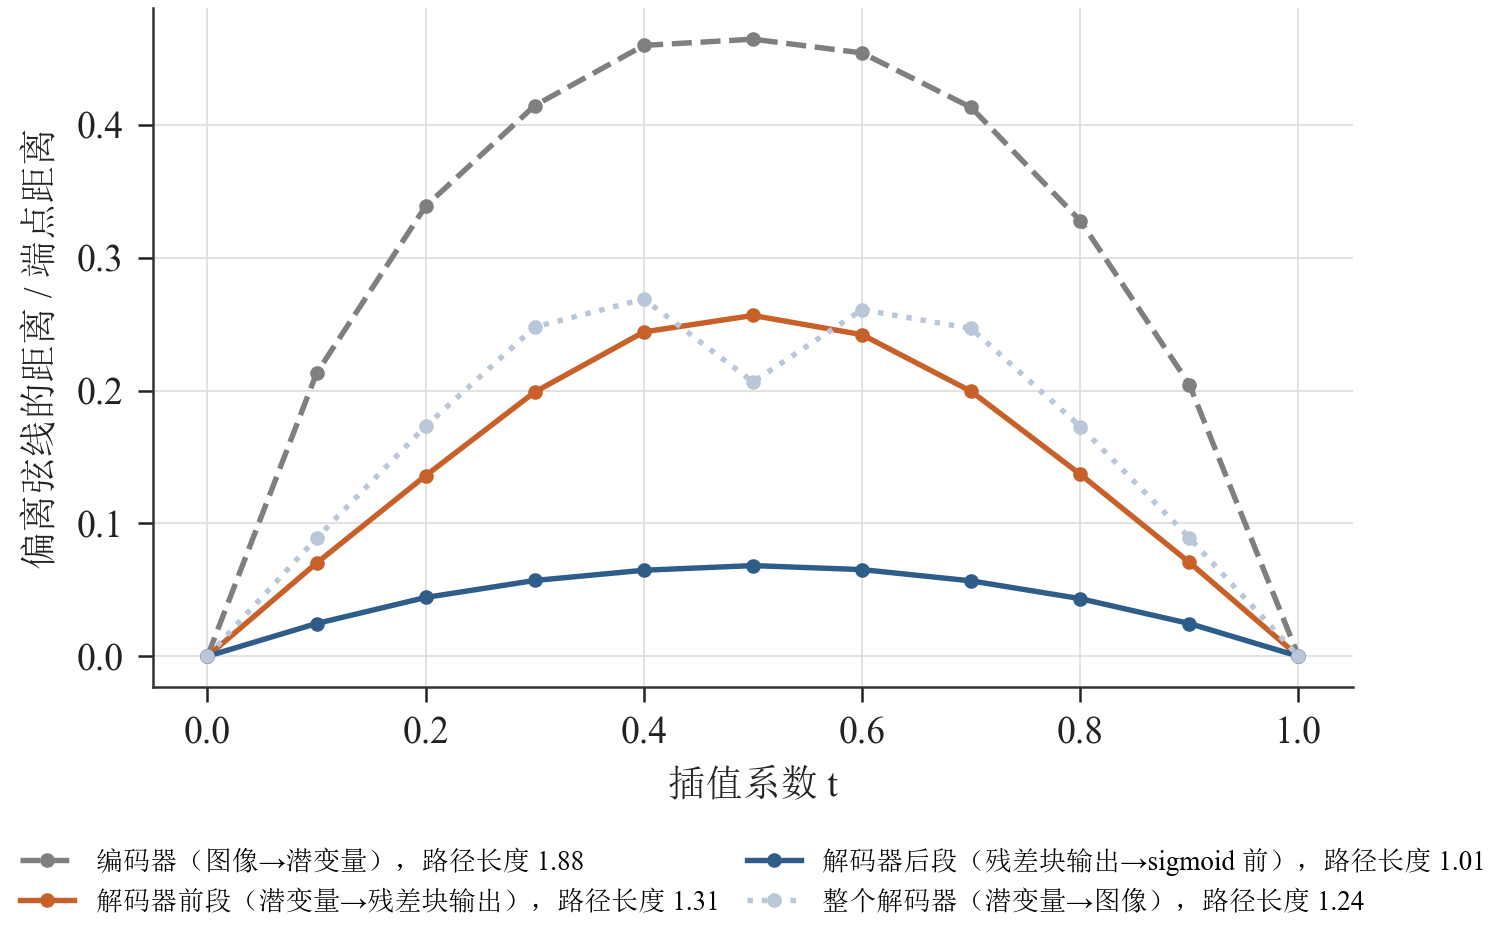
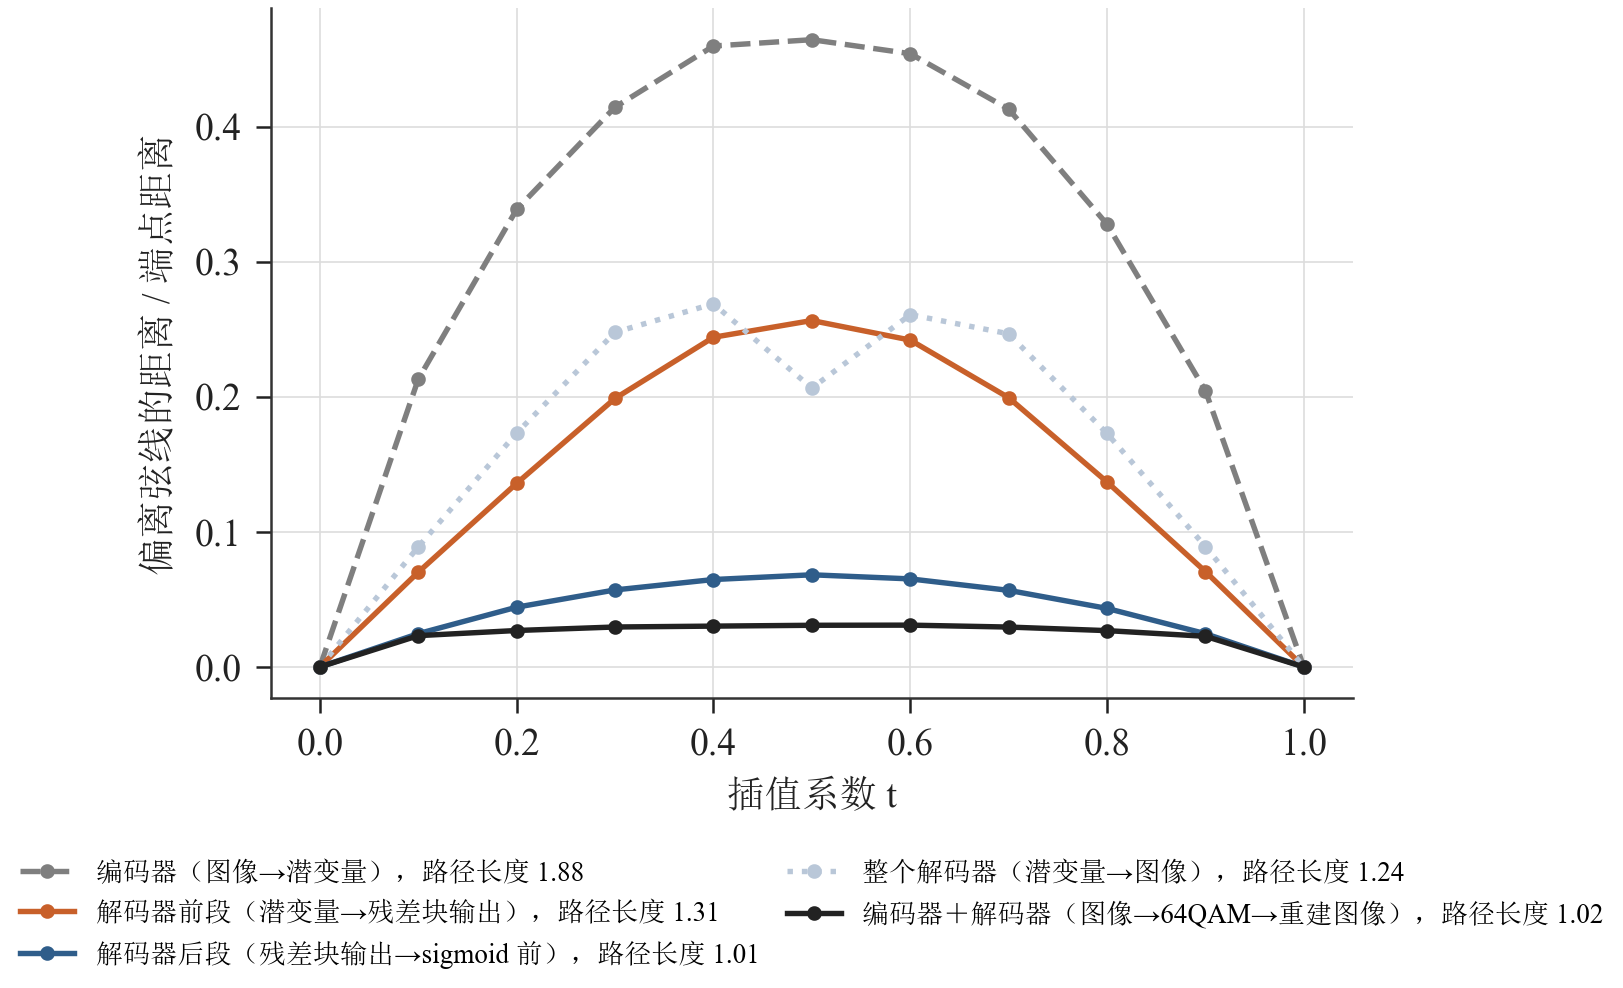
Shallow decoder write-up: interpolation through the whole chain (encoder + 64-QAM + decoder)
The reconstructed image moves almost linearly along a straight path in image space (max deviation 0.032,
path length 1.02; 0.025 / 1.005 without the 64-QAM decision), while the encoder alone bends it (0.474 / 1.88):
the decoder undoes the encoder's nonlinearity.

diff --git a/src/model/shallow_analysis/report_figs.py b/src/model/shallow_analysis/report_figs.py
@@ -44,8 +44,8 @@ def fig_interp(enc, dec, val, dev):
     pairs = [tuple(torch.randperm(len(val), generator=g)[:2].tolist()) for _ in range(100)]
     ts = TS.to(dev).view(-1, 1, 1, 1)
     keys = ['编码器（图像→潜变量）', '解码器前段（潜变量→残差块输出）', '解码器后段（残差块输出→sigmoid 前）',
-            '整个解码器（潜变量→图像）']
-    curves, lengths = {k: [] for k in keys}, {k: [] for k in keys}
+            '整个解码器（潜变量→图像）', '编码器＋解码器（图像→64QAM→重建图像）']
+    curves, lengths, extra = {k: [] for k in keys}, {k: [] for k in keys}, {}
     for i, j in pairs:
         x = val[[i, j]].float() / 255
         xt = (1 - ts) * x[0:1] + ts * x[1:2]
@@ -57,11 +57,14 @@ def fig_interp(enc, dec, val, dev):
         h = front(dec, yt)
         ht = (1 - ts) * h[0:1] + ts * h[-1:]
         z, _ = tail(dec, ht)
-        for k, cv in ((keys[1], h), (keys[2], z), (keys[3], dec(yt))):
+        it, sh = tx_iq(enc, xt)                                # whole chain, noiseless: image -> 64-QAM -> image
+        for k, cv in ((keys[1], h), (keys[2], z), (keys[3], dec(yt)), (keys[4], dec(iq_to_latent(it, *sh)))):
             d, l = dev_curve(cv); curves[k].append(d); lengths[k].append(l)
-    fig, ax = plt.subplots(figsize=(5.2, 3.4), dpi=300)
-    cols = [S.GRAY, S.ORANGE, S.BLUE, S.LBLUE]
-    styles = ['--', '-', '-', ':']
+        d, l = dev_curve(dec(enc.encoder(xt)))                # chain without the 64-QAM decision (printed only)
+        extra.setdefault('d', []).append(d); extra.setdefault('l', []).append(l)
+    fig, ax = plt.subplots(figsize=(5.2, 3.6), dpi=300)
+    cols = [S.GRAY, S.ORANGE, S.BLUE, S.LBLUE, S.INK]
+    styles = ['--', '-', '-', ':', '-']
     for k, c, ls in zip(keys, cols, styles):
         m = np.median(np.array(curves[k]), 0)
         ax.plot(TS.numpy(), m, color=c, ls=ls, lw=1.3, marker='o', ms=2.5,
@@ -73,6 +76,8 @@ def fig_interp(enc, dec, val, dev):
     fig.tight_layout(); fig.savefig(OUT / 'interp_stages.png', bbox_inches='tight', pad_inches=0.03)
     for k in keys:
         print(f'interp {k}: max deviation {np.median(np.max(curves[k], 1)):.3f}, length {np.median(lengths[k]):.3f}')
+    print(f"interp chain without 64-QAM decision: max deviation {np.median(np.max(extra['d'], 1)):.3f}, "
+          f"length {np.median(extra['l']):.3f}")
 
 
 @torch.no_grad()

diff --git a/report/notes/shallow_decoder_design.md b/report/notes/shallow_decoder_design.md
@@ -39,8 +39,9 @@
 | 解码器后段：第4个残差块输出 → sigmoid前 | 0.068 | 1.01 |
 | 解码器后段：第4个残差块输出 → 图像 | 0.097 | 1.02 |
 | 整个解码器：潜变量 → 图像 | 0.297 | 1.24 |
+| 编码器与解码器串联：图像 → 64QAM → 重建图像 | 0.032 | 1.02 |
 
-解码器前段的弯曲程度与整个解码器相当，后段在sigmoid之前几乎是直线：反解编码器非线性映射的工作由64×64上的线性3×3和残差块完成，两次上采样只做近似线性的插值与展开。因此非线性处理全部放在64×64上，这里每层卷积的计算量只有128×128的1/4、256×256的1/16；全分辨率上不设非线性层。
+编码器把图像空间的直线映射成明显弯曲的路径，而编码器与解码器串联后，重建图像沿t的路径又几乎是直线（不经过64QAM判决时为0.025与1.005），即编码器的非线性在解码器中被反解。解码器内部，前段的弯曲程度与整个解码器相当，后段在sigmoid之前几乎是直线：反解的工作由64×64上的线性3×3和残差块完成，两次上采样只做近似线性的插值与展开。因此非线性处理全部放在64×64上，这里每层卷积的计算量只有128×128的1/4、256×256的1/16；全分辨率上不设非线性层。
 
 ### 2.2 噪声抑制在上采样卷积中完成
 
